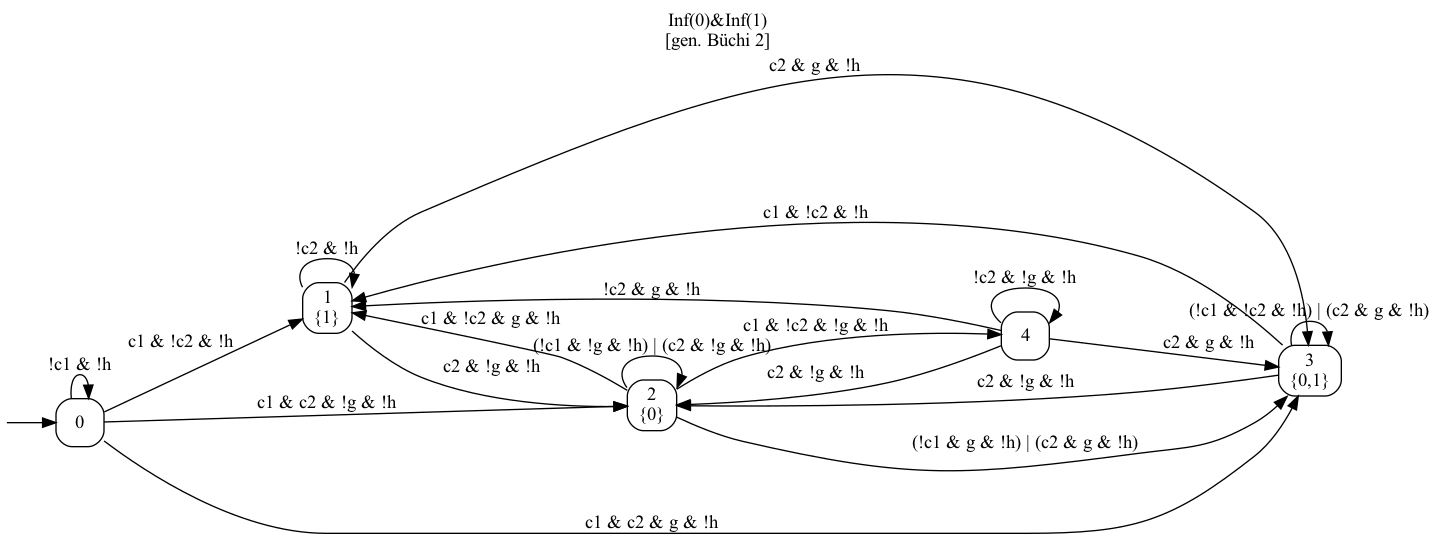
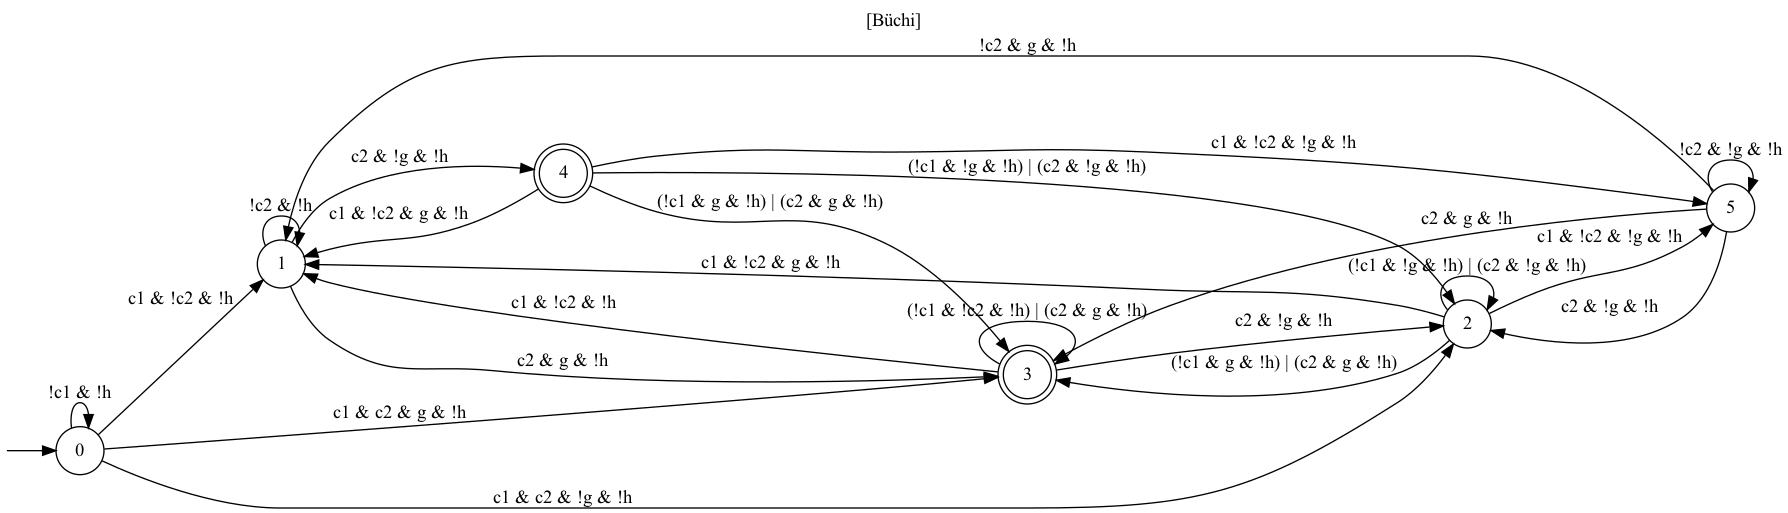
Removed Skills and turned automata into Deterministic Buchi Inf (but solve function has bugs)

diff --git a/LTLStuff/TEGTask.cpp b/LTLStuff/TEGTask.cpp
@@ -6,13 +6,14 @@
 #include <iostream>
 #include <chrono>
 #include <graphviz/gvc.h>
+#include <spot/twaalgos/hoa.hh>
+#include <spot/twaalgos/postproc.hh> 
 
 TEGTask::TEGTask(const LTLFormula& formula,
                 const GridWorldDomain& grid_domain,  
-                const GridState& start_grid_state, int task_id, bool use_skills)
+                const GridState& start_grid_state, int task_id)
     : formula_(formula), grid_domain_(grid_domain), 
-      start_grid_state_(start_grid_state), task_id_(task_id),
-      use_skills_(use_skills) { 
+      start_grid_state_(start_grid_state), task_id_(task_id) { 
 
     // Check if the start state is valid.
     if (!grid_domain_.is_valid_state(start_grid_state_)) {
@@ -45,7 +46,7 @@ TEGTask::TEGTask(const LTLFormula& formula,
     chrono::duration<double> elapsed_dfa = end1 - start1;
     std::cout << "time of calculating the automaton: " << elapsed_dfa.count() << " seconds" << std::endl;
 
-    print_dfa();
+    // print_dfa();
     save_dfa(dfa_);
     auto start2 = chrono::high_resolution_clock::now();
     // Compute the product graph of DFA and GridWorldDomain.
@@ -70,9 +71,8 @@ shared_ptr<spot::twa_graph> TEGTask::convert_to_dfa(const LTLFormula& formula) {
     }
     // Create a translator instance. 
     spot::translator trans(bdd_dict_);
-
     // Set a type to BA (Büchi Automaton).
-    trans.set_type(spot::postprocessor::Generic);
+    trans.set_type(spot::postprocessor::BA);
     // Small (default) and Deterministic are exclusive choices for set_pref().
     // Indicate whether a smaller non-deterministic automaton should be
     // preferred over a deterministic automaton (no guarantees tho).
@@ -81,9 +81,21 @@ shared_ptr<spot::twa_graph> TEGTask::convert_to_dfa(const LTLFormula& formula) {
     trans.set_pref(spot::postprocessor::SBAcc);
     // Translate LTL formula to a DFA using Spot tranlsator.
     spot::twa_graph_ptr translated_dfa = trans.run(spot_formula);
+
+    // Print reachable states in Hanoi Omega Automata format.
+    // std::cout << "Printing  translated_dfa" << std::endl;
+    // spot::print_hoa(std::cout, translated_dfa) << '\n';
+
+    // spot::postprocessor post;
+    // post.set_type(spot::postprocessor::Generic);
+    // post.set_pref(spot::postprocessor::Deterministic);
+    // spot::twa_graph_ptr postprocessed_dfa = post.run(translated_dfa, spot_formula);
+    // std::cout << "Printing  postprocessed_dfa" << std::endl;
+    // spot::print_hoa(std::cout, postprocessed_dfa) << '\n';
     
     // translated_dfa->prop_state_acc(true);
     // std::cout << "A state-based acceptance is now set to: " << translated_dfa->prop_state_acc() << endl;
+
     return translated_dfa;
 }
 
@@ -132,49 +144,12 @@ void TEGTask::compute_product() {
     }
     std::cout << product_states_.size() << " product states were generated" << endl;
 
-    // Add transitions based on "skill" actions in the domain.
-    grid_domain_.print_all_skill_actions();
     // Compute transitions in the product based on valid transitions in both the GridWorld and the DFA.
     for (const auto& prod_state : product_states_) {
         size_t dfa_state = prod_state.get_dfa_state();
         GridState grid_state = prod_state.get_grid_state();
         // This is a current label.
         set<string> curr_grid_state_props = atomic_props(grid_state);
-
-        if (use_skills_) {
-            // Use only the skill actions applicable for the current label.
-            for (const auto& skill_action : grid_domain_.get_skill_actions(grid_state)) {
-                // GridState intermediate_grid_state = skill_action.start_grid_state();
-
-                // std::cout << "SkillAction is considered for computing a product." << endl;
-                // skill_action.print_path();
-                // std::cout << "======================" << endl;
-            
-                GridState next_grid_state = skill_action.dest_grid_state();
-                if (!grid_domain_.is_valid_state(next_grid_state)) {
-                    continue;
-                }
-                // Get the atomic propositions at the next grid world state.
-                set<string> next_grid_state_props = atomic_props(next_grid_state);
-                next_grid_state_props.insert(curr_grid_state_props.begin(), curr_grid_state_props.end());
-                // BDD operations
-                bdd bdd_expr = props_to_bdd(next_grid_state_props);
-                for (auto& edge: dfa_->out(dfa_state)) {
-
-                    // Could also use edge.acc, which is spot::acc_cond::mark_t
-                    if ((edge.cond & bdd_expr) == bdd_expr) { 
-                        size_t next_dfa_state = edge.dst;
-                        ProductState next_prod_state(next_grid_state, next_dfa_state);
-                        product_transitions_[prod_state].push_back(ProductTransition(prod_state, next_prod_state, edge.cond, skill_action));
-                        // std::cout << "Added!!!" << endl;
-                        // std::cout << "======================" << endl;
-                        break;
-                    }
-                }
-                // For garbage collection purposes.
-                bdd_expr = bddfalse;
-            }
-        }
 
         // Add transitions based on "primitive" actions in the domain.
         for (const auto& action : grid_domain_.get_actions()) {
@@ -281,69 +256,16 @@ vector<ProductState> TEGTask::solve() {
         for (const auto& transition : product_transitions_[current_state]) {
             // check if the transition from `current_state` to `next_state` is accepting.
             ProductState next_state = transition.out_state();
-            if (transition.path().size() > 1) {
-                cout << "Adding Skill Action in the map!" << endl;
-            }
             parent_map.emplace(next_state, transition.path());
 
-            // Get the dfa states.
-            size_t current_dfa_state = current_state.get_dfa_state();
+            // Get the next dfa state.
             size_t next_dfa_state = next_state.get_dfa_state();
 
-            // Check if this is not a "skill-action" transition and 
-            // check if the dfa state changed. If so, add the new Skill-Action!
-            if (transition.path().size() == 1 && current_dfa_state != next_dfa_state) {
-                vector<ProductState> cached_path;
-                cached_path.push_back(next_state);
-                ProductState next_state_copy = next_state;
-                // Backtrack to get the full transition path in the grid domain.
-                while (parent_map.find(next_state_copy) != parent_map.end()) {
-                    auto preceding_path = parent_map.at(next_state_copy);
-                    if (preceding_path.front().get_dfa_state() != current_dfa_state) {
-                        // We want to cache only a path from current_dfa_state to next_dfa_state for now.
-                        break;
-                    }
-                    if (preceding_path.size() != 1) {
-                        std::cout << "SkillAction is used in the path!" << endl;
-                        std::cout << "Skill action contains the following path: " << endl;
-                        if (!preceding_path.empty()) {
-                            std::cout << preceding_path.front();
-                            for (auto it = next(preceding_path.begin()); it != preceding_path.end(); ++it) {
-                                std::cout << " -> " << *it;
-                            }
-                        }
-                        std::cout << endl;
-                        reverse(preceding_path.begin(), preceding_path.end());
-                    }
-                    cached_path.insert(cached_path.end(), preceding_path.begin(), preceding_path.end());
-                    next_state_copy = preceding_path.back();
-                }
-                reverse(cached_path.begin(), cached_path.end());
-                // TODO: apply some abstraction to cached path here!!! 
-                if (use_skills_) {
-                    bdd self_edge_cond = get_self_edge_cond(current_dfa_state);
-                    SkillAction new_skill_action (cached_path, self_edge_cond, transition.dfa_edge_condition());
-                    set<string> props = atomic_props(current_state.get_grid_state());
-                    grid_domain_.add_skill_action(cached_path.front().get_grid_state(), new_skill_action);
-                }
-            }
             if (dfa_->state_is_accepting(next_dfa_state)) {
                 product_path_.push_back(next_state);
                 // Backtrack to get the full path.
                 while (parent_map.find(next_state) != parent_map.end()) {
                     auto preceding_path = parent_map.at(next_state);
-                    if (preceding_path.size() != 1) {
-                        std::cout << "SkillAction is used in the path!" << endl;
-                        std::cout << "Skill action contains the following path: " << endl;
-                        if (!preceding_path.empty()) {
-                            std::cout << preceding_path.front();
-                            for (auto it = next(preceding_path.begin()); it != preceding_path.end(); ++it) {
-                                std::cout << " -> " << *it;
-                            }
-                        }
-                        std::cout << endl;
-                        reverse(preceding_path.begin(), preceding_path.end());
-                    }
                     product_path_.insert(product_path_.end(), preceding_path.begin(), preceding_path.end());
                     next_state = preceding_path.back();
                 }

diff --git a/main.cpp b/main.cpp
@@ -15,8 +15,6 @@
 using namespace std;
 
 int main() {
-    // Easy way to "turn off" the abstract skills.
-    bool use_skills = false;
 
     // GridWorldDomain dimensions.
     double scale = 1; 
@@ -65,7 +63,7 @@ int main() {
         LTLFormula formula = ltl_formula_list.at(task_id);
         cout << "Solving for task_id=" << task_id << " and formula=" << formula << endl;
 
-        TEGTask task(formula, domain, start_grid_state, task_id, use_skills);
+        TEGTask task(formula, domain, start_grid_state, task_id);
 
         auto start = chrono::high_resolution_clock::now();
 

diff --git a/LTLStuff/TEGTask.h b/LTLStuff/TEGTask.h
@@ -23,7 +23,7 @@ using namespace std;
 class TEGTask {
 public:
     TEGTask(const LTLFormula& formula, const GridWorldDomain& grid_domain,  
-             const GridState& start_grid_state, int task_id = 0, bool use_skills=false);
+             const GridState& start_grid_state, int task_id = 0);
 
     ~TEGTask();
     
@@ -54,7 +54,6 @@ private:
     GridWorldDomain grid_domain_;
     GridState start_grid_state_;
     int task_id_;
-    bool use_skills_;
 
     // DFA corresponding to LTL formula.
     shared_ptr<spot::twa_graph> dfa_;

diff --git a/GridWorld/GridWorldDomain.cpp b/GridWorld/GridWorldDomain.cpp
@@ -28,7 +28,6 @@ GridWorldDomain::GridWorldDomain(size_t R, size_t C,
 // Define a static map.
 map<GridState, vector<SkillAction>> GridWorldDomain::skill_actions_ = {};
 
-
 bool GridWorldDomain::is_obstacle(const GridState& state) const {
     size_t x = state.x();
     size_t y = state.y();
